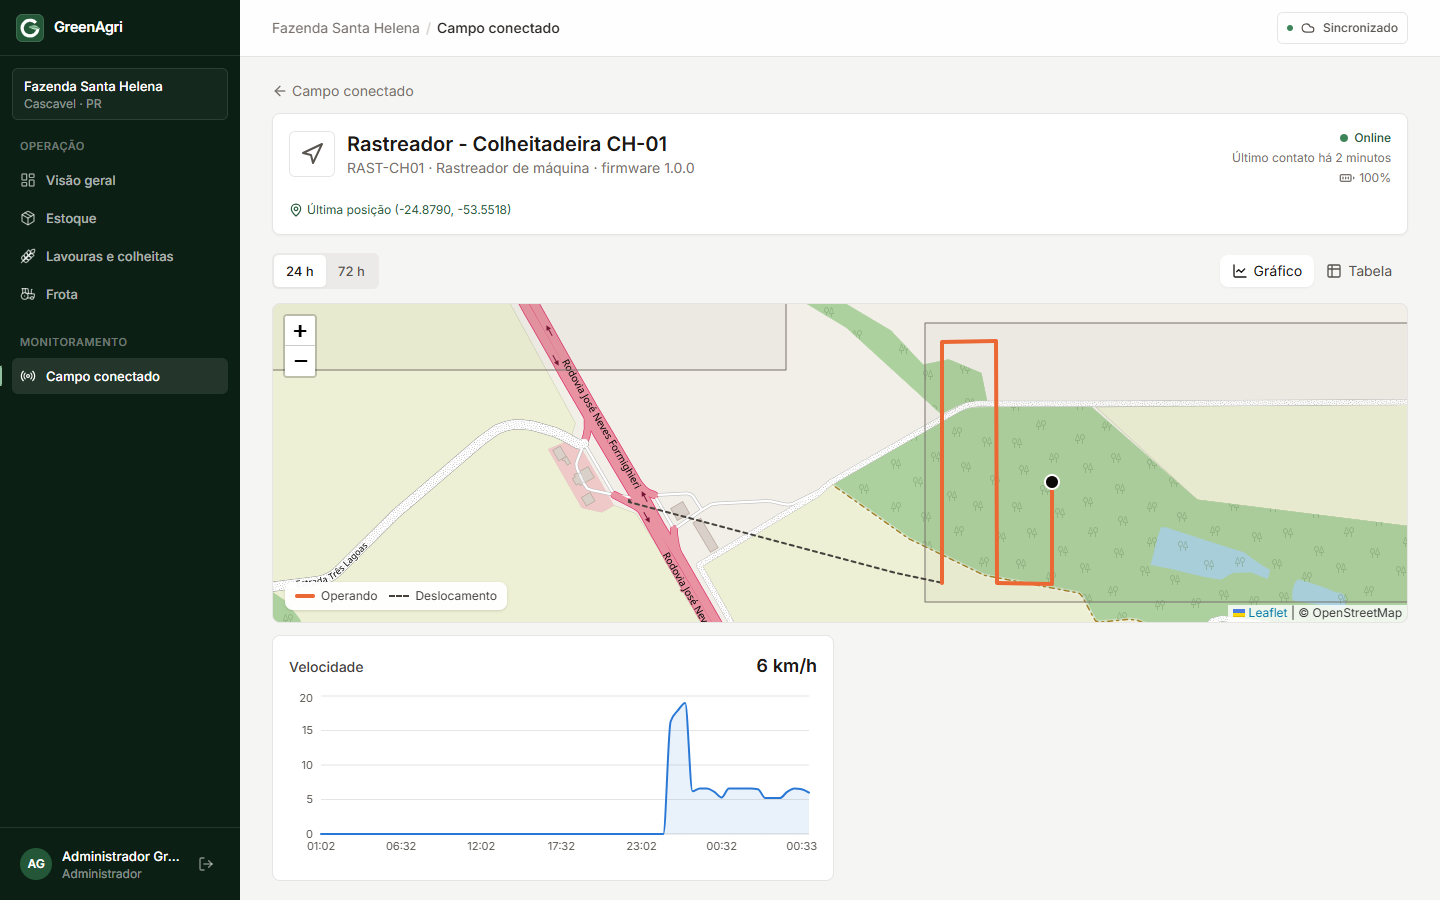
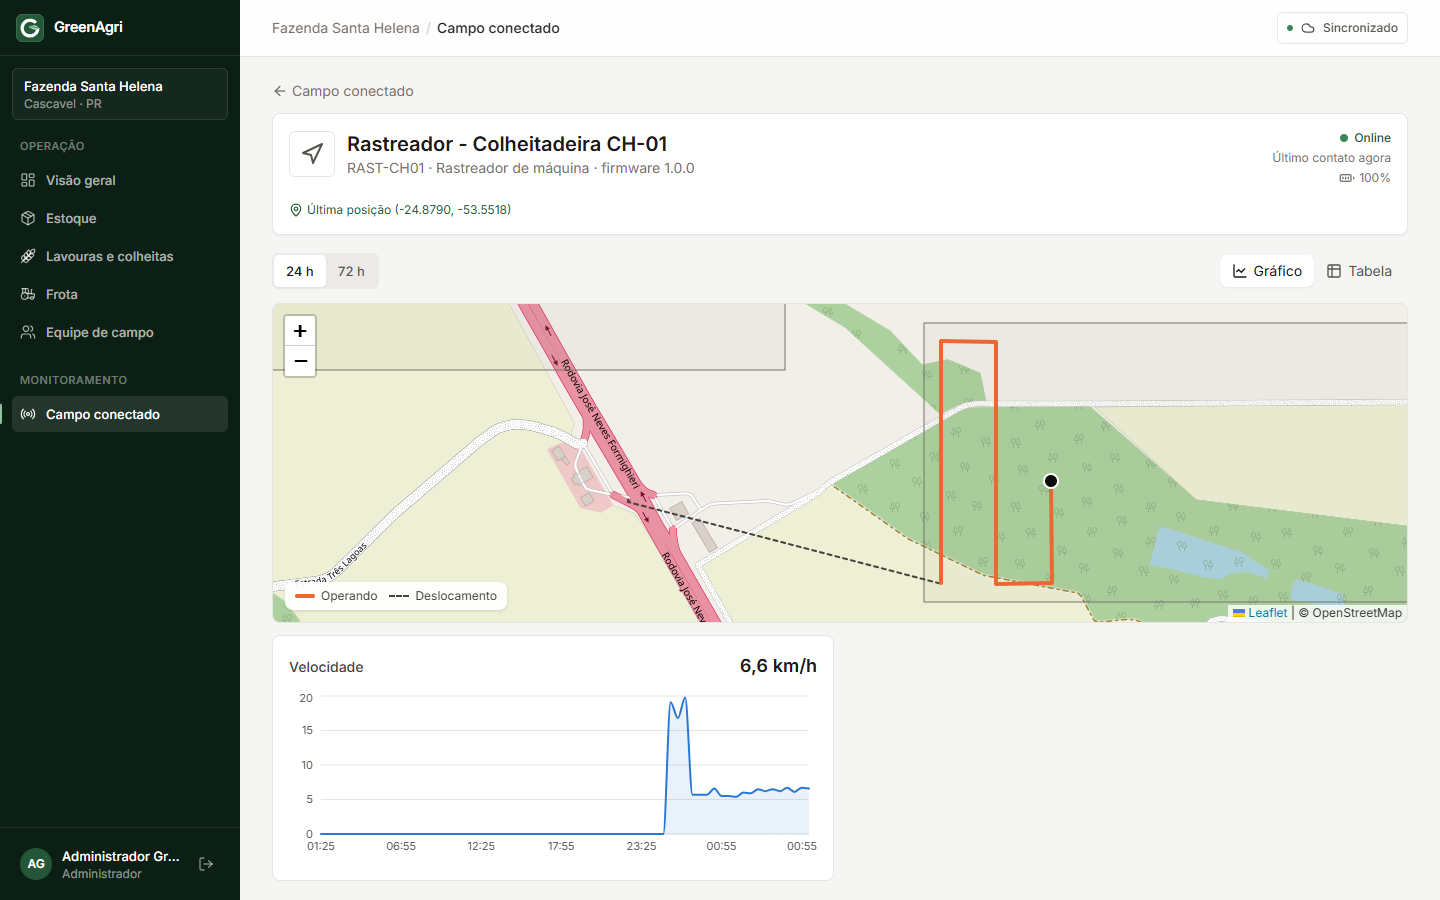
docs: document the field team and refresh screenshots

diff --git a/docs/DESENVOLVIMENTO.md b/docs/DESENVOLVIMENTO.md
@@ -66,6 +66,7 @@ Organizado **por domínio** (cada pacote tem entidade, repositório, serviço, D
 | `talhao` | Talhões georreferenciados (GeoJSON), área e centróide calculados, ponto-no-polígono |
 | `colheita` | Lavouras por talhão e safra, ciclo de status com histórico de eventos; concluir lança a produção no estoque |
 | `frota` | Máquinas e veículos, horímetro e revisões |
+| `equipe` | Operadores, habilitações por tipo de máquina, ausências e alocações em atividades |
 | `iot` | Telemetria, regras de alerta, painel e reconciliação silo × estoque |
 | `dashboard` | Indicadores consolidados |
 | `seed` | Carga de dados de demonstração a partir de `resources/seed/*.json` |
@@ -82,6 +83,7 @@ Organizado **por domínio** (cada pacote tem entidade, repositório, serviço, D
 - **Um talhão, uma lavoura ativa**: plantar soja num talhão com milho em desenvolvimento é recusado (422). A rotação na mesma safra (soja → milho safrinha) é permitida depois da conclusão.
 - **Safra**: calculada pela data de plantio no padrão jul–jun (ago/2025 → 2025/26), podendo ser informada manualmente.
 - **Geofence**: colheitadeira com rastreador operando dentro de um talhão com lavoura em desenvolvimento muda o status para *em colheita* (ver [SISTEMA-EMBARCADO.md](SISTEMA-EMBARCADO.md)).
+- **Alocação da equipe**: um operador por vez em cada atividade e uma atividade por máquina; o operador precisa da habilitação do tipo da máquina (quem opera trator opera implemento), exceto em manutenção; ausentes e máquinas inativas são recusados, e máquina em manutenção só recebe manutenção. A alocação põe a máquina *em operação* (ou *em manutenção*) e o encerramento a libera. Operador e máquina são bloqueados (`PESSIMISTIC_WRITE`, sempre nessa ordem) e o `idCliente` torna o reenvio da fila idempotente.
 - **Unidade imutável com saldo**: trocar sacas por kg num produto com estoque é recusado.
 
 ### Perfis
@@ -110,6 +112,10 @@ O schema é versionado pelo **Flyway** (`db/migration`), e o Hibernate não alte
 | GET/POST | `/api/talhoes` | Talhões com polígono GeoJSON / cadastra (área calculada) |
 | PUT/DELETE | `/api/talhoes/{id}` | Edita / exclui (ADMIN) |
 | GET/POST/PUT/DELETE | `/api/veiculos[/{id}]` | Frota |
+| GET | `/api/equipe/operadores` | Operadores com situação, habilitações e atividade atual |
+| GET | `/api/equipe/operadores/{id}/alocacoes` | Últimas 30 atividades do operador |
+| GET/POST | `/api/equipe/alocacoes` | Atividades em andamento / aloca (`operadorId`, `atividade`, `veiculoId` e/ou `talhaoId`) |
+| POST | `/api/equipe/alocacoes/{id}/encerrar` | Encerra e libera a máquina |
 | POST | `/api/iot/telemetria` | Ingestão do firmware (`X-Device-Key`) |
 | GET/POST | `/api/iot/dispositivos` | Painel / provisiona (ADMIN, devolve a chave) |
 | GET | `/api/iot/dispositivos/{id}/leituras?horas=24` | Série temporal |

diff --git a/README.md b/README.md
@@ -57,6 +57,18 @@
 ### Frota
 - Tratores, colheitadeiras, pulverizadores, caminhões e utilitários num só lugar.
 - Atualize o horímetro (ou o odômetro) e a data da próxima revisão. O app destaca as revisões que vencem em até 7 dias.
+- Cada máquina mostra **quem está operando** e tem o atalho **Alocar operador** (ou *Alocar mecânico*, se estiver na oficina).
+
+### Equipe de campo
+- Veja de relance quem está **disponível**, **em atividade** ou **ausente** (férias, folga, atestado), com turno, CNH e as máquinas que cada pessoa pode operar.
+- **Aloque um operador** numa atividade (colheita, plantio, pulverização, adubação, transporte, manutenção), escolhendo a **máquina** e/ou o **talhão**. A atividade é sugerida pelo tipo da máquina.
+- O app impede erros comuns: a mesma pessoa em duas atividades, duas pessoas na mesma máquina, alguém sem habilitação para aquela máquina, alocar quem está de férias ou usar uma máquina que está na oficina.
+- Ao alocar, a máquina passa para *em operação*. Ao **encerrar** a atividade, ela volta a ficar *disponível*.
+- Funciona offline como o resto do app: a alocação aparece na hora com o selo *Na fila* e é enviada quando o sinal volta.
+
+<p align="center">
+  <img src="docs/img/desktop-equipe.png" width="760" alt="Equipe de campo com operadores disponíveis, em atividade e ausentes">
+</p>
 
 ### Campo conectado (IoT)
 - Veja em tempo real os sensores da fazenda: **estação meteorológica**, **umidade do solo** nos talhões, **nível e temperatura dos silos** e o **rastreador da colheitadeira** (posição, velocidade e trajeto).
